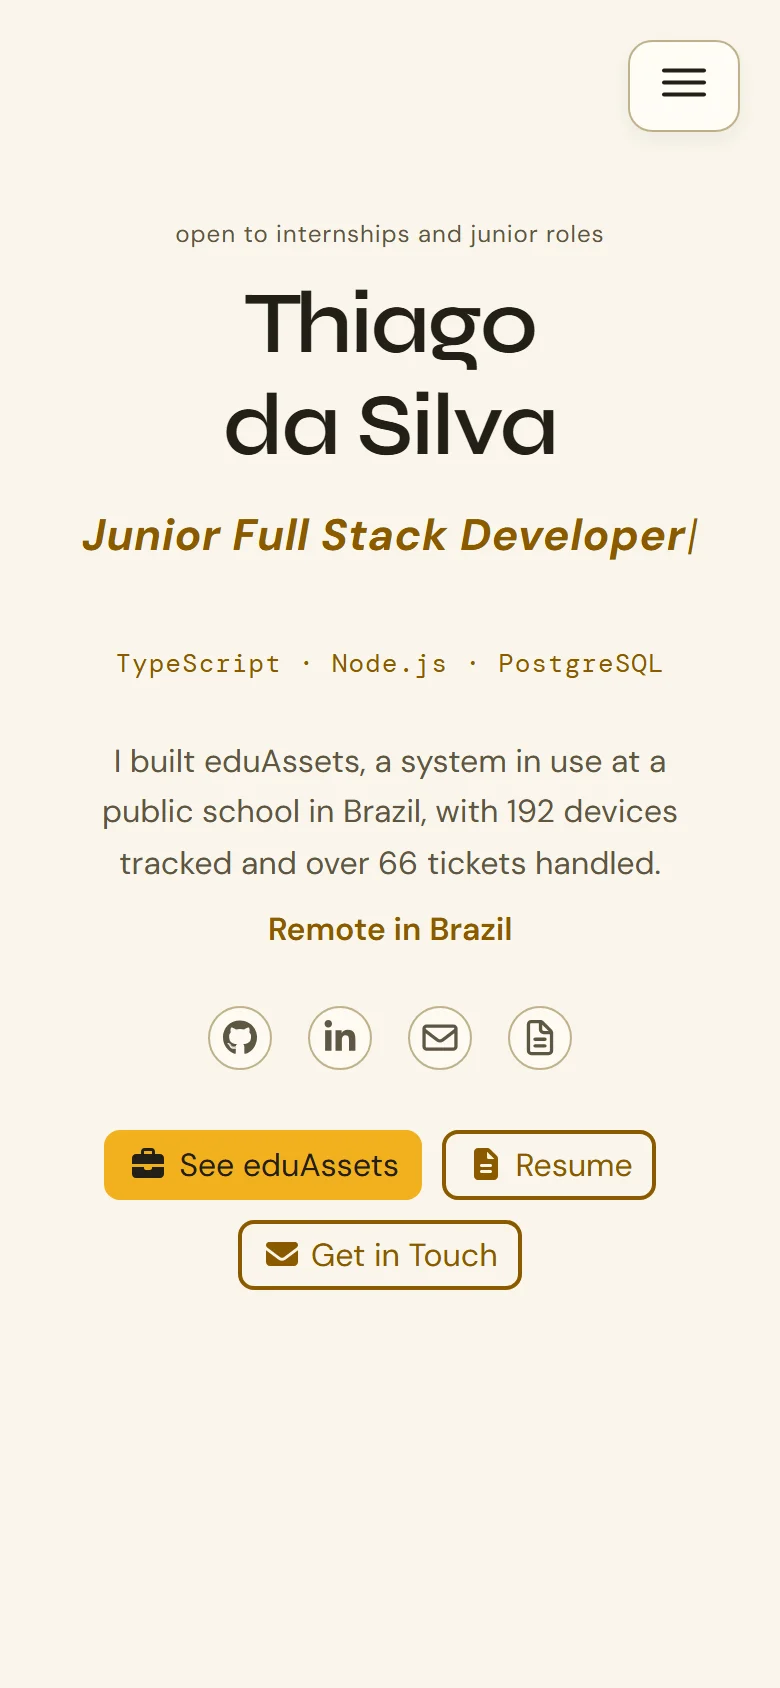
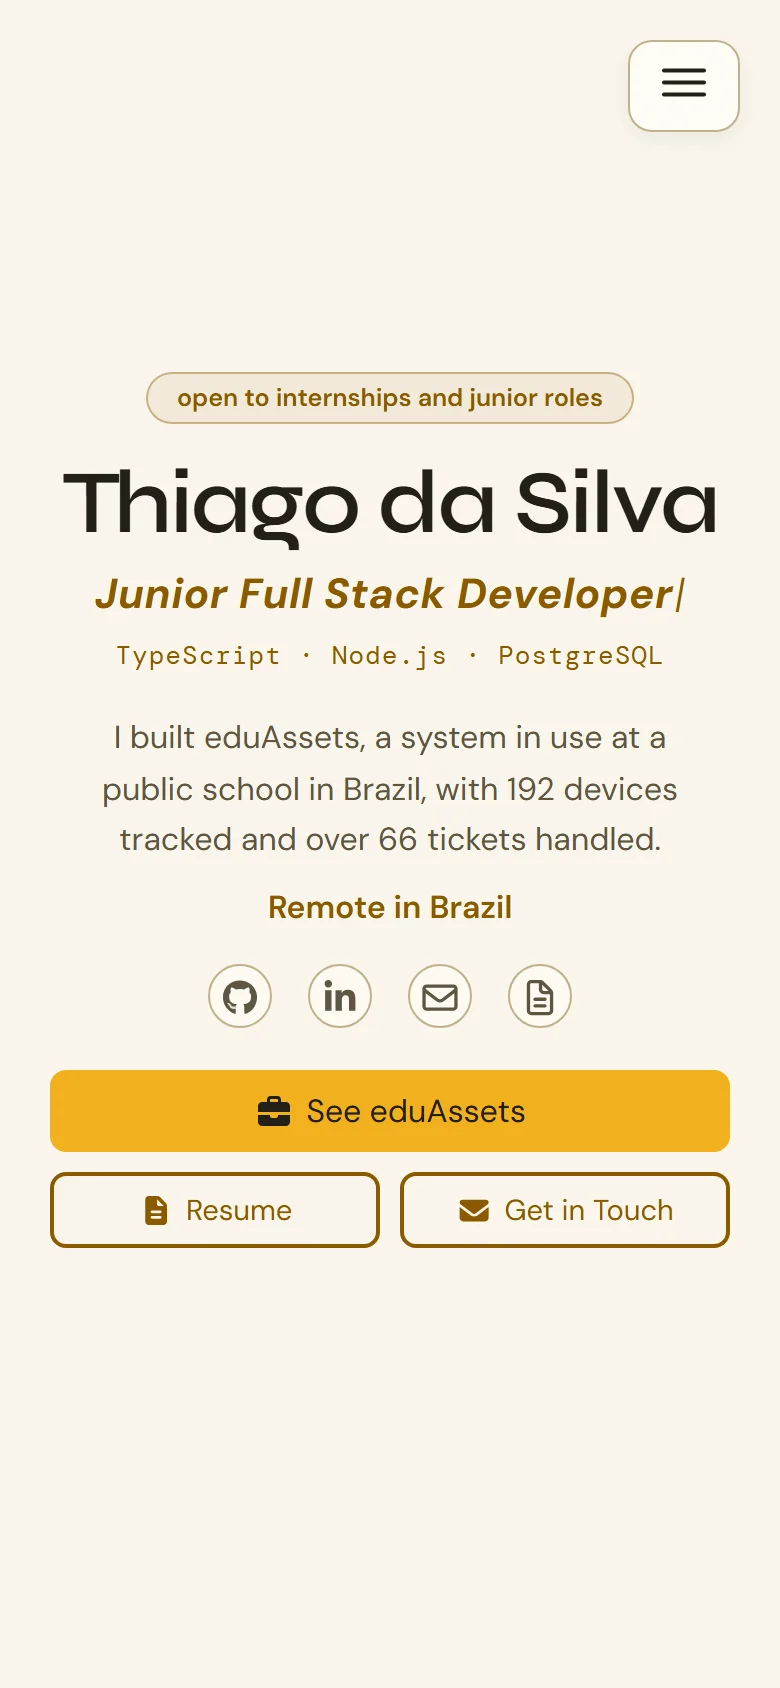
fix: keep scroll on language change and rebalance the mobile hero
- Drop the URL hash when switching language so a leftover anchor no longer pulls the page to that section
- Clear the menu button, keep name and role on one line and turn availability into a badge on phones
- Stack the hero actions with the eduAssets button first on phones
- Add regression tests and refresh the README mobile screenshot

diff --git a/src/widgets/hero/Hero.tsx b/src/widgets/hero/Hero.tsx
@@ -19,7 +19,7 @@ const SOCIAL_ICON =
 const BUTTON_HOVER =
   "transition-all duration-100 hover:-translate-y-1 hover:border-text/50 hover:brightness-90";
 
-const OUTLINE_BUTTON = `mb-2.5 mr-2.5 inline-block rounded-lg border-2 border-link px-2.5 py-[5px] hover:text-text hover:shadow-[0_8px_24px_var(--shadow-link-sm)] ${BUTTON_HOVER}`;
+const OUTLINE_BUTTON = `mb-2.5 mr-2.5 inline-block rounded-lg border-2 border-link px-2.5 py-[5px] hover:text-text hover:shadow-[0_8px_24px_var(--shadow-link-sm)] max-bp600:m-0 max-bp600:inline-flex max-bp600:items-center max-bp600:justify-center max-bp600:gap-1.5 max-bp600:px-1 max-bp600:py-2 max-bp600:text-[14.5px] max-bp360:text-[13px] ${BUTTON_HOVER}`;
 
 export function Hero() {
   const { t } = useT();
@@ -27,28 +27,28 @@ export function Hero() {
 
   return (
     <section
-      className={`hero-section ${SECTION} flex min-h-[calc(100vh-110px)] cursor-default items-center justify-center text-center max-bp1024:min-h-[calc(100vh-90px)] max-bp768:min-h-[calc(100svh-80px)]`}
+      className={`hero-section ${SECTION} flex min-h-[calc(100vh-110px)] cursor-default items-center justify-center text-center max-bp1024:min-h-[calc(100vh-90px)] max-bp768:min-h-[calc(100svh-80px)] max-bp600:pb-8 max-bp600:pt-[78px]`}
     >
-      <div className="flex w-full max-w-[780px] flex-[5] flex-col items-center max-bp1024:max-w-[700px] max-bp768:max-w-[90%]">
-        <span className="hero-greeting animate-fade-up [animation-delay:0ms] motion-reduce:animate-none mb-5 text-[18px] tracking-[0.5px] text-muted max-bp768:mb-4 max-bp768:text-[15px] max-bp600:mb-3.5 max-bp600:text-[13px] max-bp480:mb-3 max-bp480:text-[12px]">
+      <div className="flex w-full max-w-[780px] flex-[5] flex-col items-center max-bp1024:max-w-[700px] max-bp768:max-w-[90%] max-bp600:max-w-full">
+        <span className="hero-greeting animate-fade-up [animation-delay:0ms] motion-reduce:animate-none mb-5 text-[18px] tracking-[0.5px] text-muted max-bp768:mb-4 max-bp768:text-[15px] max-bp600:mb-3.5 max-bp600:rounded-full max-bp600:border max-bp600:border-link/40 max-bp600:bg-link/8 max-bp600:px-3.5 max-bp600:py-1 max-bp600:text-[12.5px] max-bp600:font-semibold max-bp600:tracking-normal max-bp600:text-link">
           {t("hero.availability")}
         </span>
-        <h1 className="animate-fade-up [animation-delay:100ms] motion-reduce:animate-none self-center text-balance pb-[15px] font-[family-name:var(--font-hero)] text-[clamp(44px,6vw,84px)] leading-[1.15] text-text hc:text-link hc:[-webkit-text-fill-color:var(--link-color)]">
+        <h1 className="animate-fade-up [animation-delay:100ms] motion-reduce:animate-none self-center text-balance pb-[15px] font-[family-name:var(--font-hero)] text-[clamp(44px,6vw,84px)] leading-[1.15] max-bp600:whitespace-nowrap max-bp600:pb-1.5 max-bp600:text-[11.5vw] text-text hc:text-link hc:[-webkit-text-fill-color:var(--link-color)]">
           {t("hero.title")}
         </h1>
-        <p className="hero-subtitle animate-fade-up [animation-delay:350ms] motion-reduce:animate-none self-center text-[32px] font-semibold italic tracking-[0.3px] text-muted max-bp1024:text-[28px] max-bp768:text-[26px] max-bp600:text-[24px] max-bp480:text-[22px] max-bp360:text-[19px] max-bp600:min-h-[2.6em]">
+        <p className="hero-subtitle animate-fade-up [animation-delay:350ms] motion-reduce:animate-none self-center text-[32px] font-semibold italic tracking-[0.3px] text-muted max-bp1024:text-[28px] max-bp768:text-[26px] max-bp600:text-[min(5.4vw,26px)]">
           <Typewriter />
         </p>
-        <p className="hero-stack animate-fade-up [animation-delay:425ms] motion-reduce:animate-none mt-3 font-[family-name:var(--font-mono)] text-[15px] tracking-[0.04em] text-link max-bp480:text-[13px]">
+        <p className="hero-stack animate-fade-up [animation-delay:425ms] motion-reduce:animate-none mt-3 font-[family-name:var(--font-mono)] text-[15px] tracking-[0.04em] text-link max-bp600:mt-2 max-bp480:text-[13px]">
           {t("hero.stack")}
         </p>
 
-        <div className="hero-description animate-fade-up [animation-delay:500ms] motion-reduce:animate-none mt-8 max-w-[650px] text-balance text-center text-[1.1rem] leading-[1.8] text-muted max-bp1024:max-w-[620px] max-bp1024:text-[1.05rem] max-bp768:max-w-[520px] max-bp768:text-[1rem] max-bp768:leading-[1.7] max-bp600:mt-6 max-bp600:max-w-[400px] max-bp600:leading-[1.65] max-bp480:mt-7 max-bp480:max-w-[340px] max-bp480:leading-[1.6] max-bp360:max-w-[300px] max-bp360:text-[0.95rem]">
+        <div className="hero-description animate-fade-up [animation-delay:500ms] motion-reduce:animate-none mt-8 max-w-[650px] text-balance text-center text-[1.1rem] leading-[1.8] text-muted max-bp1024:max-w-[620px] max-bp1024:text-[1.05rem] max-bp768:max-w-[520px] max-bp768:text-[1rem] max-bp768:leading-[1.7] max-bp600:mt-6 max-bp600:max-w-[400px] max-bp600:leading-[1.65] max-bp480:mt-5 max-bp480:max-w-[340px] max-bp480:leading-[1.6] max-bp360:max-w-[300px] max-bp360:text-[0.95rem]">
           <p>{t("hero.description")}</p>
           <p className="mt-2 font-semibold text-link">{t("hero.location")}</p>
         </div>
 
-        <div className="hero-social-links animate-fade-up [animation-delay:600ms] motion-reduce:animate-none mb-[5px] mt-[25px] flex items-center justify-center gap-[18px]">
+        <div className="hero-social-links animate-fade-up [animation-delay:600ms] motion-reduce:animate-none mb-[5px] mt-[25px] flex items-center justify-center gap-[18px] max-bp600:mt-4">
           <a href={SITE.github} target="_blank" rel="noopener noreferrer" className={SOCIAL_ICON} aria-label="GitHub">
             <Icon icon={faGithub} />
           </a>
@@ -63,10 +63,10 @@ export function Hero() {
           </CvButton>
         </div>
 
-        <div className="hero-buttons animate-fade-up [animation-delay:700ms] motion-reduce:animate-none mt-[25px] flex flex-wrap justify-center">
+        <div className="hero-buttons animate-fade-up [animation-delay:700ms] motion-reduce:animate-none mt-[25px] flex flex-wrap justify-center max-bp600:mt-4 max-bp600:grid max-bp600:w-full max-bp600:max-w-[340px] max-bp600:grid-cols-2 max-bp600:gap-2.5">
           <Link
             to={localize(projectPath("eduassets"))}
-            className={`mb-2.5 mr-2.5 inline-flex items-center gap-1.5 rounded-lg border-2 border-fill bg-fill px-2.5 py-[5px] text-[1rem] text-on-fill hover:shadow-[0_8px_24px_var(--shadow-link-md)] ${BUTTON_HOVER}`}
+            className={`mb-2.5 mr-2.5 inline-flex items-center gap-1.5 rounded-lg border-2 border-fill bg-fill px-2.5 py-[5px] text-[1rem] text-on-fill hover:shadow-[0_8px_24px_var(--shadow-link-md)] max-bp600:col-span-2 max-bp600:m-0 max-bp600:justify-center max-bp600:py-2 ${BUTTON_HOVER}`}
           >
             <Icon icon={faBriefcase} />
             <span>{t("hero.cta")}</span>

diff --git a/tests/e2e/behavior.spec.ts b/tests/e2e/behavior.spec.ts
@@ -18,6 +18,19 @@ test.describe("language", () => {
     await expect(page.locator("#projects h2")).toHaveText("Projetos");
   });
 
+  test("a leftover section anchor does not pull the page there when the language changes", async ({ page }) => {
+    await page.setViewportSize({ width: 1440, height: 900 });
+    await page.goto("/#about");
+    await page.waitForLoadState("networkidle");
+    await page.waitForTimeout(800);
+    await page.evaluate(() => window.scrollTo({ top: 0, behavior: "instant" }));
+    await page.locator("#lang-trigger").click();
+    await page.getByRole("button", { name: "Português" }).first().click();
+    await expect(page).toHaveURL(/\/pt$/);
+    await page.waitForTimeout(1000);
+    expect(await page.evaluate(() => window.scrollY)).toBe(0);
+  });
+
   test("switching back to English is explicit and sticks even with a Portuguese browser", async ({ browser }) => {
     const context = await browser.newContext({ locale: "pt-BR" });
     const page = await context.newPage();
@@ -488,6 +501,30 @@ test.describe("mobile drawer focus containment", () => {
     await page.keyboard.press("Escape");
     await expect(page.locator("#main-content")).toHaveJSProperty("inert", false);
   });
+});
+
+test.describe("mobile hero", () => {
+  test.use({ reducedMotion: "reduce" });
+
+  for (const [width, height] of [
+    [360, 640],
+    [375, 667],
+    [390, 844],
+  ] as const) {
+    test(`${width}x${height}: the name fits on one line and the hero clears the menu button`, async ({ page }) => {
+      await page.setViewportSize({ width, height });
+      await page.goto("/pt");
+      const lines = await page.locator("h1").evaluate((element) => {
+        const range = document.createRange();
+        range.selectNodeContents(element);
+        return new Set([...range.getClientRects()].map((rect) => Math.round(rect.top))).size;
+      });
+      expect(lines).toBe(1);
+      const menu = await page.locator("#mobile-menu-btn").boundingBox();
+      const availability = await page.locator(".hero-greeting").boundingBox();
+      expect(availability?.y ?? 0).toBeGreaterThanOrEqual((menu?.y ?? 0) + (menu?.height ?? 0));
+    });
+  }
 });
 
 test.describe("localized 404", () => {

diff --git a/src/features/switch-language/useSwitchLanguage.ts b/src/features/switch-language/useSwitchLanguage.ts
@@ -10,7 +10,9 @@ export function useSwitchLanguage(): (target: Locale) => void {
   const location = useLocation();
   return (target) => {
     storeLocale(target);
-    void navigate(localizePath(location.pathname + location.hash, target), {
+    // The hash is left out on purpose: React Router scrolls to it even with preventScrollReset,
+    // so a leftover "#about" would pull the page to that section.
+    void navigate(localizePath(location.pathname, target), {
       replace: true,
       preventScrollReset: true,
     });
